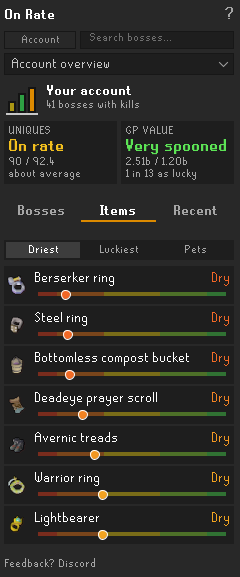
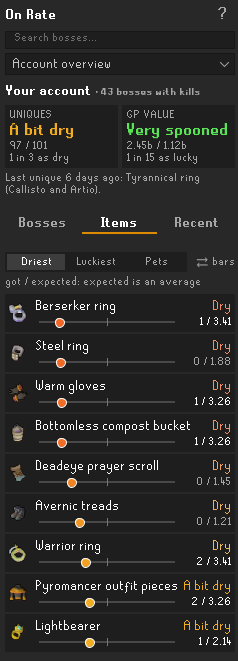
README: new screenshots, got / expected explained; "up to 15" on the Items tab
- Retaken README screenshots (boss page, account list, Items tab) and a
  new item-hover picture, in docs/.
- The README says what got / expected means and that it is an average,
  not drops you were owed.
- The Driest list only holds items below average with at least 1
  expected, so it can have fewer than 15 rows: the tab tooltip, account
  help, config description, HOW-IT-WORKS and CHANGELOG now say "up to 15".

Claude-Session: https://claude.ai/code/session_0152WJcY13kVWkNEVmjjRmcM

diff --git a/src/main/java/com/expecteddrops/ui/ExpectedDropsPanel.java b/src/main/java/com/expecteddrops/ui/ExpectedDropsPanel.java
@@ -1324,7 +1324,7 @@ public class ExpectedDropsPanel extends PluginPanel
 			? "Open your collection log and click the pages of the bosses you do, or go kill one. "
 			+ "Your account shows up here."
 			: "Every boss you have kills at, added up. Click one to open it.<br><br>"
-			+ "<b>Items</b>: your " + TOP_ITEMS + " driest or luckiest items, and your pets. <b>Recent</b>: your latest uniques.<br><br>"
+			+ "<b>Items</b>: up to " + TOP_ITEMS + " of your driest or luckiest items, and your pets. <b>Recent</b>: your latest uniques.<br><br>"
 			+ "GE value uses RuneLite's prices. Pets, jars and other untradeables count as 0 GP, so a twisted bow outweighs many cheap drops.<br><br>"
 			+ "Items several bosses drop (dragon pickaxe, godsword shards, Virtus, onyx...) are on each boss's page. "
 			+ "They count in the totals once On Rate knows every kill count.<br><br>"
@@ -1974,7 +1974,7 @@ public class ExpectedDropsPanel extends PluginPanel
 		label.setBorder(BorderFactory.createCompoundBorder(
 			BorderFactory.createMatteBorder(0, 0, 2, 0, selected ? Theme.ACCENT : ColorScheme.DARK_GRAY_COLOR),
 			new EmptyBorder(Theme.HAIR, Theme.S, Theme.S, Theme.S)));
-		label.setToolTipText(tab == TAB_ITEMS ? "Your " + TOP_ITEMS + " driest and " + TOP_ITEMS + " luckiest items across every boss, and your pets"
+		label.setToolTipText(tab == TAB_ITEMS ? "Up to " + TOP_ITEMS + " of your driest and " + TOP_ITEMS + " of your luckiest items across every boss, and your pets"
 			: tab == TAB_RECENT ? "Your latest uniques across every boss" : "Every boss you have kills at");
 		if (!selected)
 		{

diff --git a/src/main/java/com/expecteddrops/ExpectedDropsConfig.java b/src/main/java/com/expecteddrops/ExpectedDropsConfig.java
@@ -103,7 +103,7 @@ public interface ExpectedDropsConfig extends Config
 	@ConfigItem(
 		keyName = "showTopItems",
 		name = "Items tab",
-		description = "Show an Items tab on the account overview: your 15 driest and 15 luckiest items across every boss, and your pets",
+		description = "Show an Items tab on the account overview: up to 15 of your driest and 15 of your luckiest items across every boss, and your pets",
 		position = 9,
 		section = displaySection
 	)

diff --git a/docs/HOW-IT-WORKS.md b/docs/HOW-IT-WORKS.md
@@ -27,7 +27,7 @@ What the panel opens on. It adds up every boss you have kills at. A boss with 0 
 - The two **verdict tiles** at the top are your whole account: **Uniques** (how many) and **GP value** (what they're worth). An account that's dry on the number of drops but hit two twisted bows shows up as spooned on GP value. Hover a tile for the details. Prices come from RuneLite's own price list, so On Rate makes no web requests; untradeable items like pets and jars count as 0 GP. Turn off *GE value* in the settings to keep only the Uniques tile. The tiles stay at the top on every tab.
 - Three tabs: **Bosses**, **Items** and **Recent**.
 - **Bosses** (the default tab): one row per boss with its verdict. Use **Sort** to put the most expected, driest, luckiest, most killed, longest dry streak or alphabetical first. **Longest dry streak** shows, instead of the verdict, how long since each boss's last unique in times its unique rate ("2.6×"); a "+" means the last one came before On Rate, so it's at least that. Click a boss to open it, or hover it to see its driest item. Bosses with almost nothing expected yet (under 0.05 uniques) aren't listed, because they say nothing about luck; they still count in your account total.
-- **Items:** your 15 **driest** or 15 **luckiest** items across every boss, or your **pets**: the 5 luckiest pets you have (got with the fewest kills expected) and the 5 you'd most likely have by now but don't. Driest only lists items with at least 1 expected, so rare items you've barely farmed don't fill it up. On Driest and Luckiest each row also says **got / expected** beside the dot (for example `0 / 2.60`): how many you have, against the average number a player would have by now. That is a statistical average, not a number you were owed, so `0 / 2.60` means none, where the average player would have about 2.6. The verdict word and the dot say how dry or lucky that is, and the hover has the full explanation. Click one to open its boss.
+- **Items:** up to 15 **driest** or 15 **luckiest** items across every boss, or your **pets**: the 5 luckiest pets you have (got with the fewest kills expected) and the 5 you'd most likely have by now but don't. Driest only lists items that are below average with at least 1 expected, so rare items you've barely farmed don't fill it up and it can hold fewer than 15; Luckiest only needs one drop and above-average luck. On Driest and Luckiest each row also says **got / expected** beside the dot (for example `0 / 2.60`): how many you have, against the average number a player would have by now. That is a statistical average, not a number you were owed, so `0 / 2.60` means none, where the average player would have about 2.6. The verdict word and the dot say how dry or lucky that is, and the hover has the full explanation. Click one to open its boss.
 - **Recent:** first **Today** and **Last 7 days**: your kills and uniques, in total and per boss. The number of uniques is green when it's more than you should have had from those kills, orange when it's fewer; hover a line for the expected number. On Rate keeps these counts for two weeks, so they are always complete, however many kills you do. Below that, your 10 latest uniques across every boss: the item, the boss and kill count, when ("today", "3 days ago") and how many kills it took. Click one to open its boss.
 - One grey line under the bosses says how many bosses aren't listed (hover it to see which). **Shared items** (dragon pickaxe, godsword shards, Virtus, onyx...) have no row here: you find them on the page of each boss that drops them. They do count in the account's **verdict** and **GE value** at the top, once On Rate knows the kill count of every boss that drops them.
 
@@ -77,7 +77,7 @@ Open the settings with the cog next to **On Rate** in the Configuration panel.
 - **Sync reminders:** the chat reminder after killing a boss that isn't synced yet. On by default.
 - **Drop messages:** a chat line when you get a unique, saying how many kills it took. On by default.
 - **Dry milestone messages:** a chat line when you pass 1x, 2x, 3x, 5x or 10x the drop rate dry on an item. On by default.
-- **Items tab:** the Items tab on the account overview (your 15 driest and luckiest items). On by default.
+- **Items tab:** the Items tab on the account overview (up to 15 driest and luckiest items). On by default.
 - **GE value:** the GP value tile (see [Account overview](#account-overview)). On by default.
 - **This trip card**, **In-game overlay** and **Colour-blind colours**: see [Extras](#extras). This trip card is on by default.
 - **Royal Titans:** kills count as **duo** kills unless you change it to **Solo** or **Some of each**. With *Some of each*, also enter how many of your kills were solo; the rest count as duo. In a duo you get about half the uniques of a solo kill, while the pet chance stays the same.

diff --git a/README.md b/README.md
@@ -4,11 +4,15 @@
 
 <p>
 <img src="docs/chambers-of-xeric.png" width="239" alt="Boss page: Chambers of Xeric, with the Uniques and GP value verdicts and every item against what you should have by now">
-<img src="docs/account-bosses.png" width="229" alt="Account overview: your whole account's verdicts, luck over time and every boss sorted driest first">
-<img src="docs/account-items.png" width="240" alt="Account overview, Items tab: your driest items across every boss">
+<img src="docs/account-bosses.png" width="225" alt="Account overview: your whole account's verdicts, luck over time and every boss sorted driest first">
+<img src="docs/account-items.png" width="238" alt="Account overview, Items tab: your driest items across every boss, each with its verdict and got / expected">
 </p>
 
-**How to read it:** on each item, the bar is what you got and the white line is what you should have by now. Figures like "luckier than 83% of players" come from the drop-rate maths for a typical player at your kill count, not from other players' accounts: On Rate has no player data.
+<p>
+<img src="docs/item-hover.png" width="346" alt="Hovering an item: your result, how it compares with other players, the drop rate, got / expected, your chance by now and your dry streak">
+</p>
+
+**How to read it:** on each item, the bar is what you got and the white line is what you should have by now. On the Items tab each row also says *got / expected* (for example `0 / 2.60`): what you have against the average for a typical player at your kill count. That is an average, not drops you were owed. Figures like "luckier than 83% of players" come from the drop-rate maths for a typical player at your kill count, not from other players' accounts: On Rate has no player data.
 
 > Built on the idea of the [Delve Calculator](https://github.com/Speaax/Delve-calculator) by Speaax, which does this for Doom of Mokhaiotl. If you mainly do Doom, install it too. See [Credits](#credits).
 
@@ -22,7 +26,7 @@
 
 - **Over 50 bosses and raids** from the Bosses and Raids tabs of the collection log, including Doom of Mokhaiotl per delve level (Fortis Colosseum, Tempoross and Wintertodt arrive with the next update; a few things are left out: see *Not covered* below).
 - **Two verdicts per boss**, from *Very dry* to *Very spooned*: how many uniques you got, and what they're worth in GP. Plus how common your result is among players at the same kill count, worked out from the drop rates.
-- **Account overview:** all your bosses added up, your driest and luckiest items and pets, and what you killed and got today and this week.
+- **Account overview:** all your bosses added up, up to 15 of your driest and 15 of your luckiest items, each with got / expected, your pets, and what you killed and got today and this week.
 - **Hover any item** for its drop rate, your dry streak, how far past the drop rate you are and how many players at your kill count would have fewer or more (worked out from the drop rates).
 - **History** per boss: the kills On Rate saw and what they dropped.
 - **Uses your raid points** for each raid's purple chance, and **counts your team** at Nex, Yama, the Hueycoatl, Corp and Zalcano.

diff --git a/CHANGELOG.md b/CHANGELOG.md
@@ -31,7 +31,7 @@ Updates come through the Plugin Hub. Each heading is the date of that update; **
 - **Chaos Elemental page:** Chaos Elemental has its own boss page again, with its kill count, History and its shared items (dragon pickaxe and pet), each judged on every boss that drops it. It shows "All shared" instead of a verdict, since none of its uniques are its own.
 - **Pictures for shared items:** the dragon axe, the Chaos elemental pet and other items several bosses drop now show their picture straight away, instead of initials until you opened their collection log page.
 - **Hovers in rows:** item, Uniques tile, GP value and account hovers show their numbers as label / value rows with a thin line between them, instead of a stack of sentences. An item hover opens with "Your result", names the boss under the item, and lists drop rates per wave, delve level or raid one per row. The Uniques tile's hover drops its dry / spooned explanation, and the trip card's per hour, unique value, verdict and uniques use the same rows. An item you have none of adds "Each kill is its own roll" to its hover. The Items tab and shared items use the same hover as an item on its boss page. The Recent tab (day totals and latest uniques) and History (each line, and the seen / uniques summary under the list) use the same rows.
-- **Items tab, Driest and Luckiest:** 15 items instead of 10, and each row also says **got / expected** (`0 / 2.60`, `3 / 1.20`) beside the dot, in a column of one width so the dots line up and the row is no taller. The verdict word, the dot, the hover and the order are unchanged, and a line under the switch and the hover say that expected is an average, not drops you were owed. Pets keep their verdict and chance.
+- **Items tab, Driest and Luckiest:** up to 15 items instead of 10 (Driest can hold fewer: it only lists items below average with at least 1 expected), and each row also says **got / expected** (`0 / 2.60`, `3 / 1.20`) beside the dot, in a column of one width so the dots line up and the row is no taller. The verdict word, the dot, the hover and the order are unchanged, and a line under the switch and the hover say that expected is an average, not drops you were owed. Pets keep their verdict and chance.
 - **Calmer panel:**
   - **Items you can't read yet are quiet:** on a boss page, an item with none got and less than half expected (the same line as "Too early") has a grey name and count and a grey tick, and a slimmer bar. Every item stays in its place, and its hover is the same. Counts are the regular weight and grey until you have one; names stay bold.
   - **Account lists:** each row has one neutral track with a dot instead of five colour bands (the Luck gauge keeps its bands), and "On rate" is white. The other verdict words use the boss page's calmer colours.
